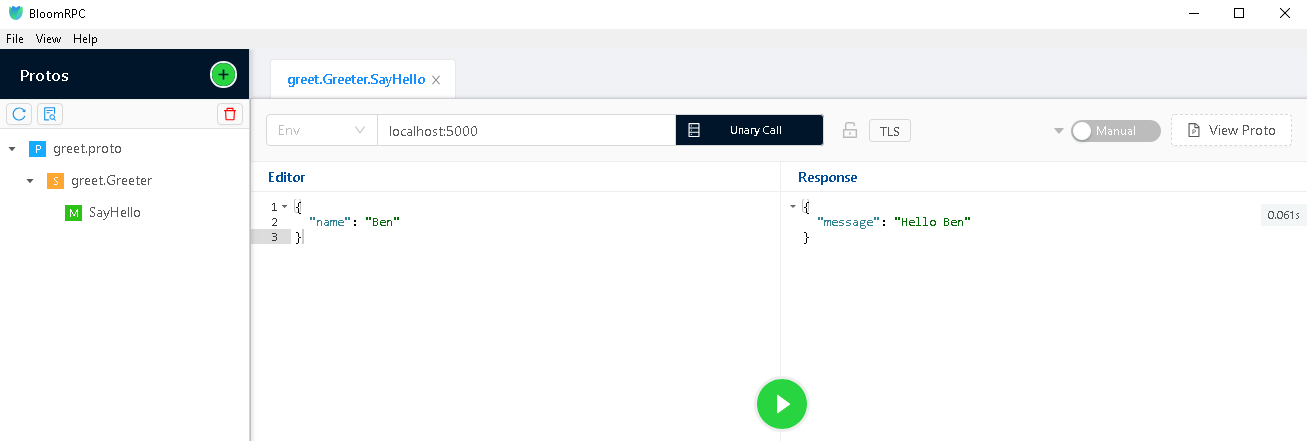
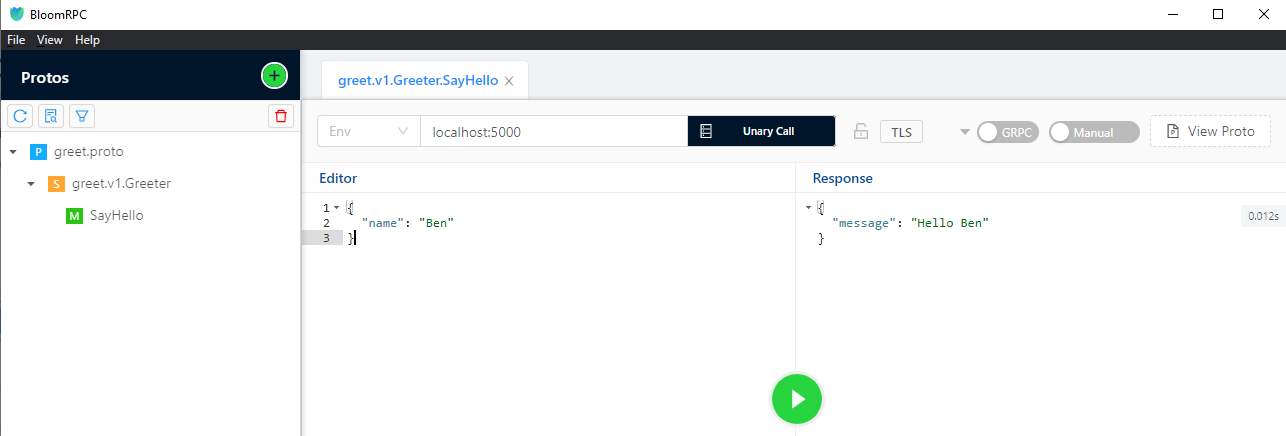
Adding gRPC versioning, interface definitions, and some clean up for better readability

diff --git a/aspnetapp/Controllers/HelloController.cs b/aspnetapp/Controllers/HelloController.cs
@@ -1,31 +1,31 @@
 using System.Threading.Tasks;
+using Microsoft.AspNetCore.Http;
 using Microsoft.AspNetCore.Mvc;
 using Microsoft.Extensions.Logging;
 using aspnetapp.Services;
-using GrpcGreeter;
-using Microsoft.AspNetCore.Http;
+using Greet.V1;
 
 namespace aspnetapp.Controllers
 {
     /// <summary>
-    /// Home controller
+    /// Hello controller
     /// </summary>
     [ApiVersion("1.0")]
     [ApiController]
     [Route("v{version:apiVersion}/[controller]")]
     [Produces("application/json")]
-    public class HomeController : Controller
+    public class HelloController : Controller
     {
-        private readonly ILogger<HomeController> _logger;
-        private readonly GreeterService _service;
+        private readonly ILogger<HelloController> _logger;
+        private readonly IGreeterService _service;
         
         /// <summary>
-        /// Home constructor
+        /// Hello constructor
         /// </summary>
-        public HomeController(ILogger<HomeController> logger)
+        public HelloController(ILogger<HelloController> logger, IGreeterService service)
         {
             _logger = logger;
-            _service = new GreeterService();
+            _service = service;
         }
 
         /// <summary>
@@ -34,19 +34,20 @@ namespace aspnetapp.Controllers
         /// <remarks>
         /// Sample request:
         ///
-        ///     GET /{name}
+        ///     GET /hello/{name}
         ///
         /// </remarks>
         /// <param name="name"></param>
         [HttpGet("{name}", Name = "SayHello")]
-        [ProducesResponseType(StatusCodes.Status200OK)]
+        [ProducesResponseType(StatusCodes.Status200OK, Type = typeof(HelloReply))]
         [ProducesResponseType(StatusCodes.Status400BadRequest)]
         [ProducesResponseType(StatusCodes.Status500InternalServerError)]
         public async Task<IActionResult> SayHello(string name)
         {
             if (string.IsNullOrEmpty(name))
                 return BadRequest();
-
+            
+            // Forward the call to the greeter service
             var response = await _service.SayHello(new HelloRequest {Name = name}, null);
             return Ok(response);
         }

diff --git a/aspnetapp/Startup.cs b/aspnetapp/Startup.cs
@@ -33,8 +33,9 @@ namespace aspnetapp
         /// </summary>
         /// <param name="services"></param>
         /// <returns></returns>
-        public void ConfigureServices(IServiceCollection services)
+        public static void ConfigureServices(IServiceCollection services)
         {
+            services.AddRouting(options => options.LowercaseUrls = true);
             services.AddControllers();
 
             //Add API versioning to application
@@ -88,6 +89,9 @@ namespace aspnetapp
             });
 
             services.AddGrpc();
+            
+            // Registers the service with a scoped lifetime
+            services.AddScoped<IGreeterService, GreeterService>();
         }
 
         /// <summary>
@@ -96,7 +100,7 @@ namespace aspnetapp
         /// <param name="app"></param>
         /// <param name="env"></param>
         /// <returns></returns>
-        public void Configure(IApplicationBuilder app, IWebHostEnvironment env)
+        public static void Configure(IApplicationBuilder app, IWebHostEnvironment env)
         {
             if (env.IsDevelopment())
             {

diff --git a/aspnetapp/Services/IGreeterService.cs b/aspnetapp/Services/IGreeterService.cs
@@ -7,7 +7,7 @@ namespace aspnetapp.Services
     /// <summary>
     /// Greeting Service
     /// </summary>
-    public class GreeterService : Greeter.GreeterBase, IGreeterService
+    public interface IGreeterService
     {
         /// <summary>
         /// A method that takes in a request name and responds with a hello message
@@ -15,12 +15,6 @@ namespace aspnetapp.Services
         /// <param name="request"></param>
         /// <param name="context"></param>
         /// <returns></returns>
-        public override async Task<HelloReply> SayHello(HelloRequest request, ServerCallContext context)
-        {
-            return await Task.FromResult(new HelloReply
-            {
-                Message = $"Hello {request.Name}"
-            });
-        }
+        Task<HelloReply> SayHello(HelloRequest request, ServerCallContext context);
     }
 }

diff --git a/aspnetapp/Program.cs b/aspnetapp/Program.cs
@@ -15,8 +15,8 @@ namespace aspnetapp
         /// </summary>
         /// <param name="args"></param>
         /// <returns></returns>
-        private static Task Main(string[] args) =>
-            CreateHostBuilder(args).Build().RunAsync();
+        private static async Task Main(string[] args) =>
+            await CreateHostBuilder(args).Build().RunAsync();
 
 
         /// <summary>
